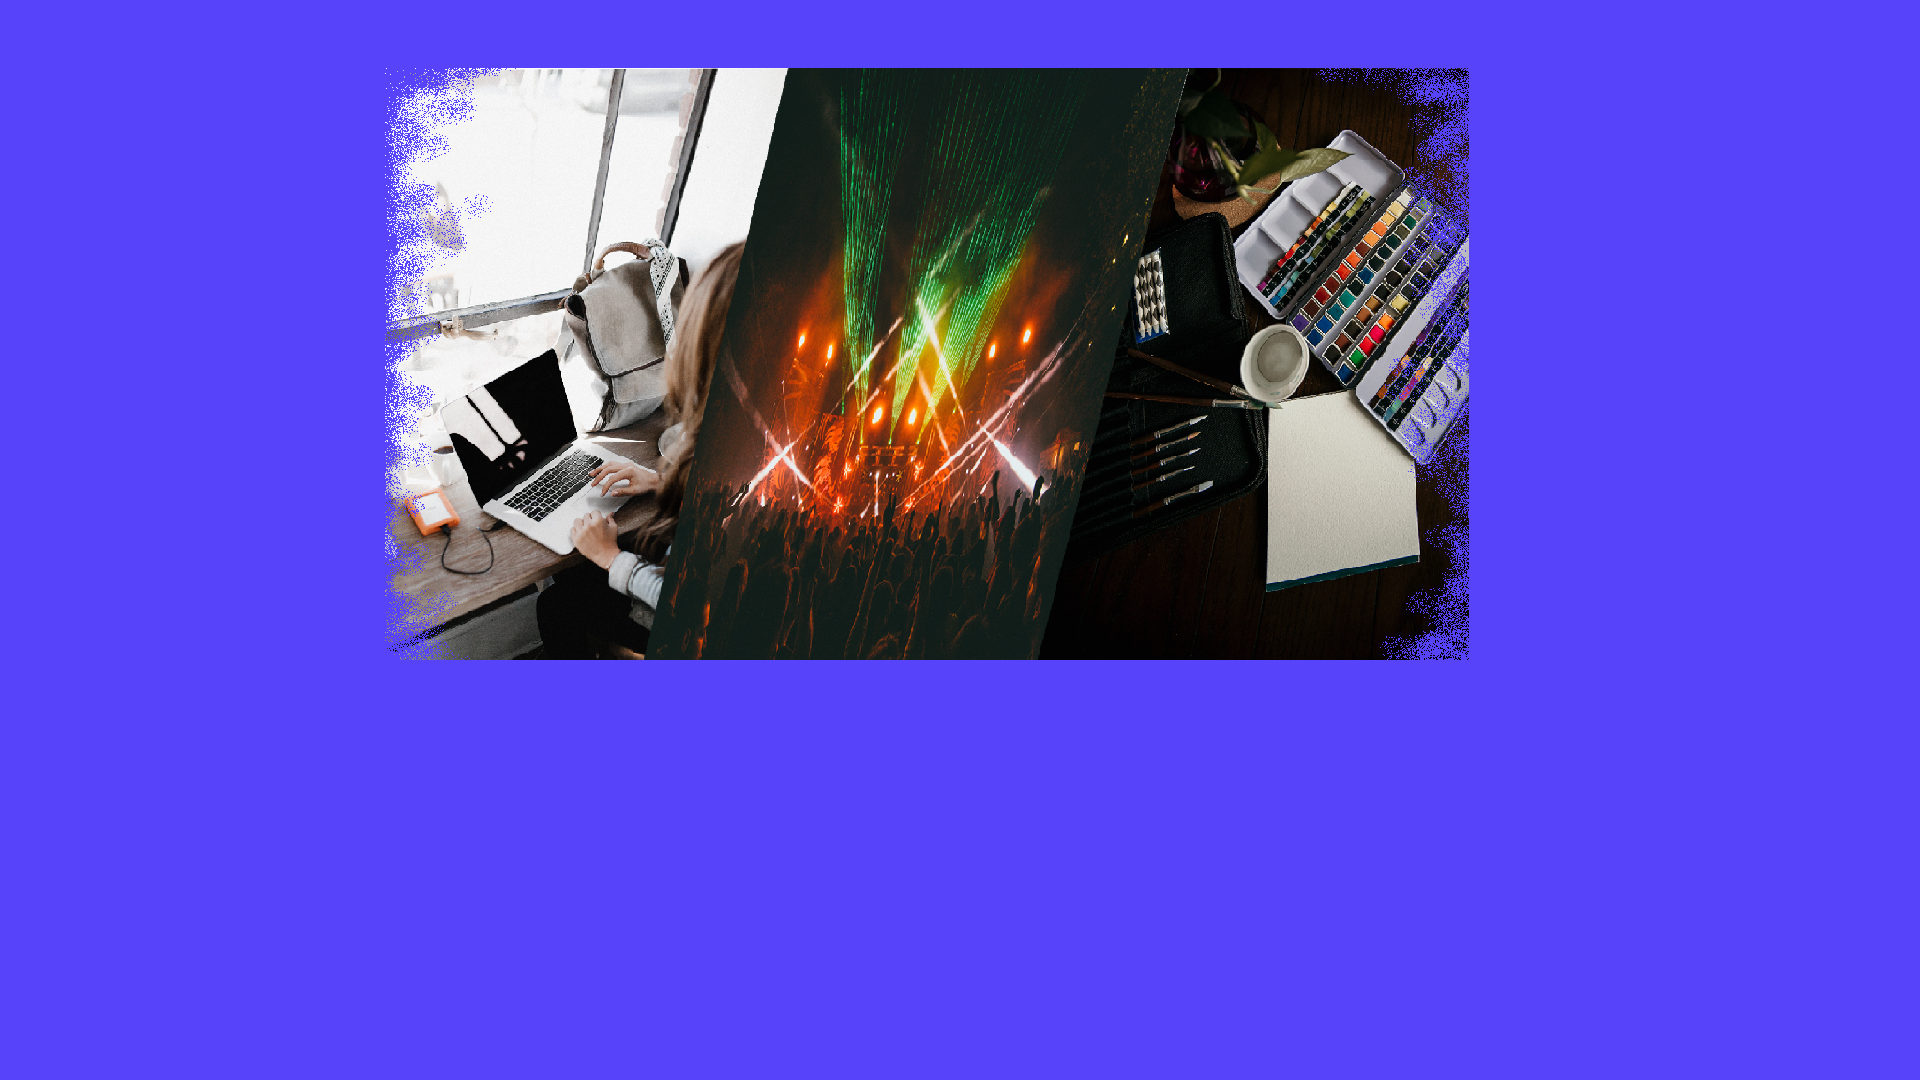
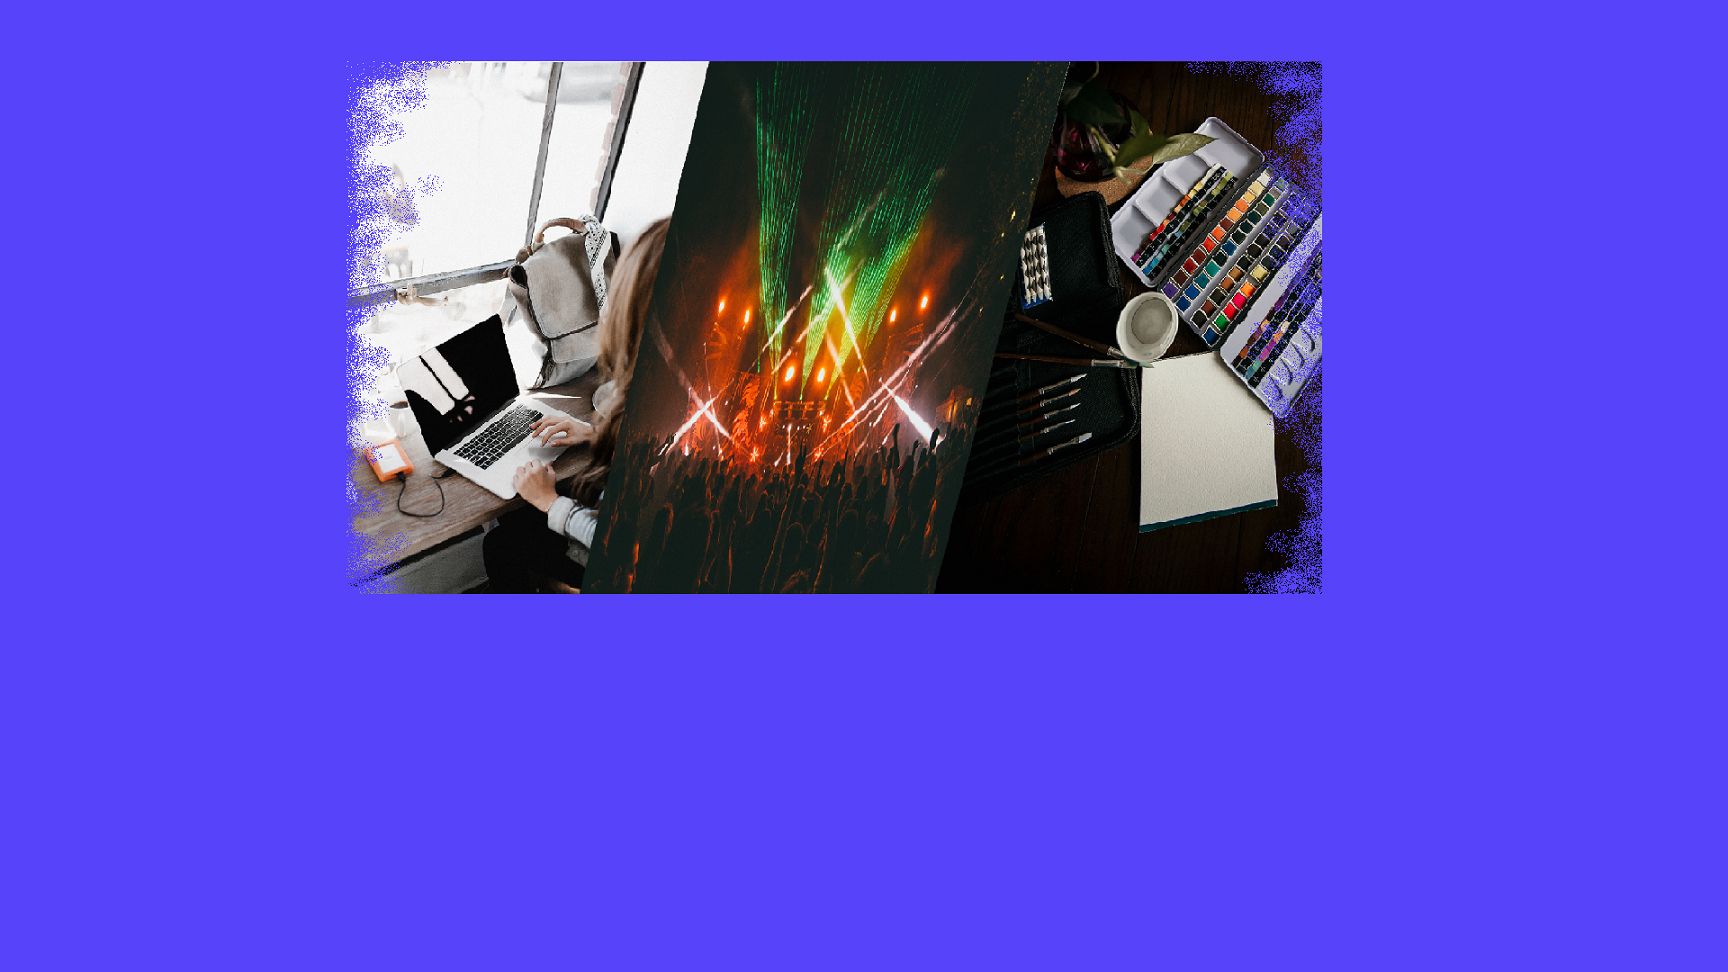
new navigationbar include and upload button

diff --git a/css/style.css b/css/style.css
@@ -249,6 +249,9 @@ iframe {
   width: 100%;
   height: 7rem;
   background-color: #5643fa;
+  position: sticky;
+  top: 0;
+  left: 0;
   padding: 1rem;
   transition: all 0.3s ease; }
   .navigationbar:hover {
@@ -283,9 +286,9 @@ iframe {
     color: #5643fa; }
 
 .header {
-  height: 80vh;
+  height: 91vh;
   position: relative;
-  background-image: linear-gradient(to right bottom, rgba(86, 67, 250, 0.7), rgba(41, 152, 255, 0.4)), url(../../img/newbackground.png);
+  background-image: linear-gradient(to right bottom, rgba(86, 67, 250, 0.7), rgba(41, 152, 255, 0.4)), url(/img/col.jpg);
   background-size: cover;
   background-position: top;
   box-shadow: 0 1rem 2rem rgba(0, 0, 0, 0.2); }

diff --git a/sass/layout/_header.scss b/sass/layout/_header.scss
@@ -1,8 +1,8 @@
 .header
 {
-    height: 80vh;
+    height: 91vh;
     position: relative;
-    background-image:linear-gradient(to right bottom,rgba($color-tertiary-dark, 0.700),rgba($color-tertiary-light, 0.400)),url(../../img/newbackground.png);
+    background-image:linear-gradient(to right bottom,rgba($color-tertiary-dark, 0.700),rgba($color-tertiary-light, 0.400)),url(/img/col.jpg);
     background-size: cover;
     background-position: top;
     box-shadow: 0 1rem 2rem rgba(0,0,0,.2);

diff --git a/home.html b/home.html
@@ -14,7 +14,7 @@
     <link rel="stylesheet" href="https://use.fontawesome.com/releases/v5.8.0/css/all.css"
         integrity="sha384-Mmxa0mLqhmOeaE8vgOSbKacftZcsNYDjQzuCOm6D02luYSzBG8vpaOykv9lFQ51Y" crossorigin="anonymous">
     <!-- custom css -->
-    <link rel="stylesheet" href="css/icon-font.css">
+  
     <link rel="stylesheet" href="css/style.css">
 
     <title>Video sharing web appllication</title>

diff --git a/sass/components/_navigationbar.scss b/sass/components/_navigationbar.scss
@@ -3,7 +3,9 @@
   width: 100%;
   height: 7rem;
   background-color: $color-tertiary-dark;
-
+  position: sticky;
+  top: 0;
+  left: 0;
   padding: 1rem;
 
   transition: all 0.3s ease;
